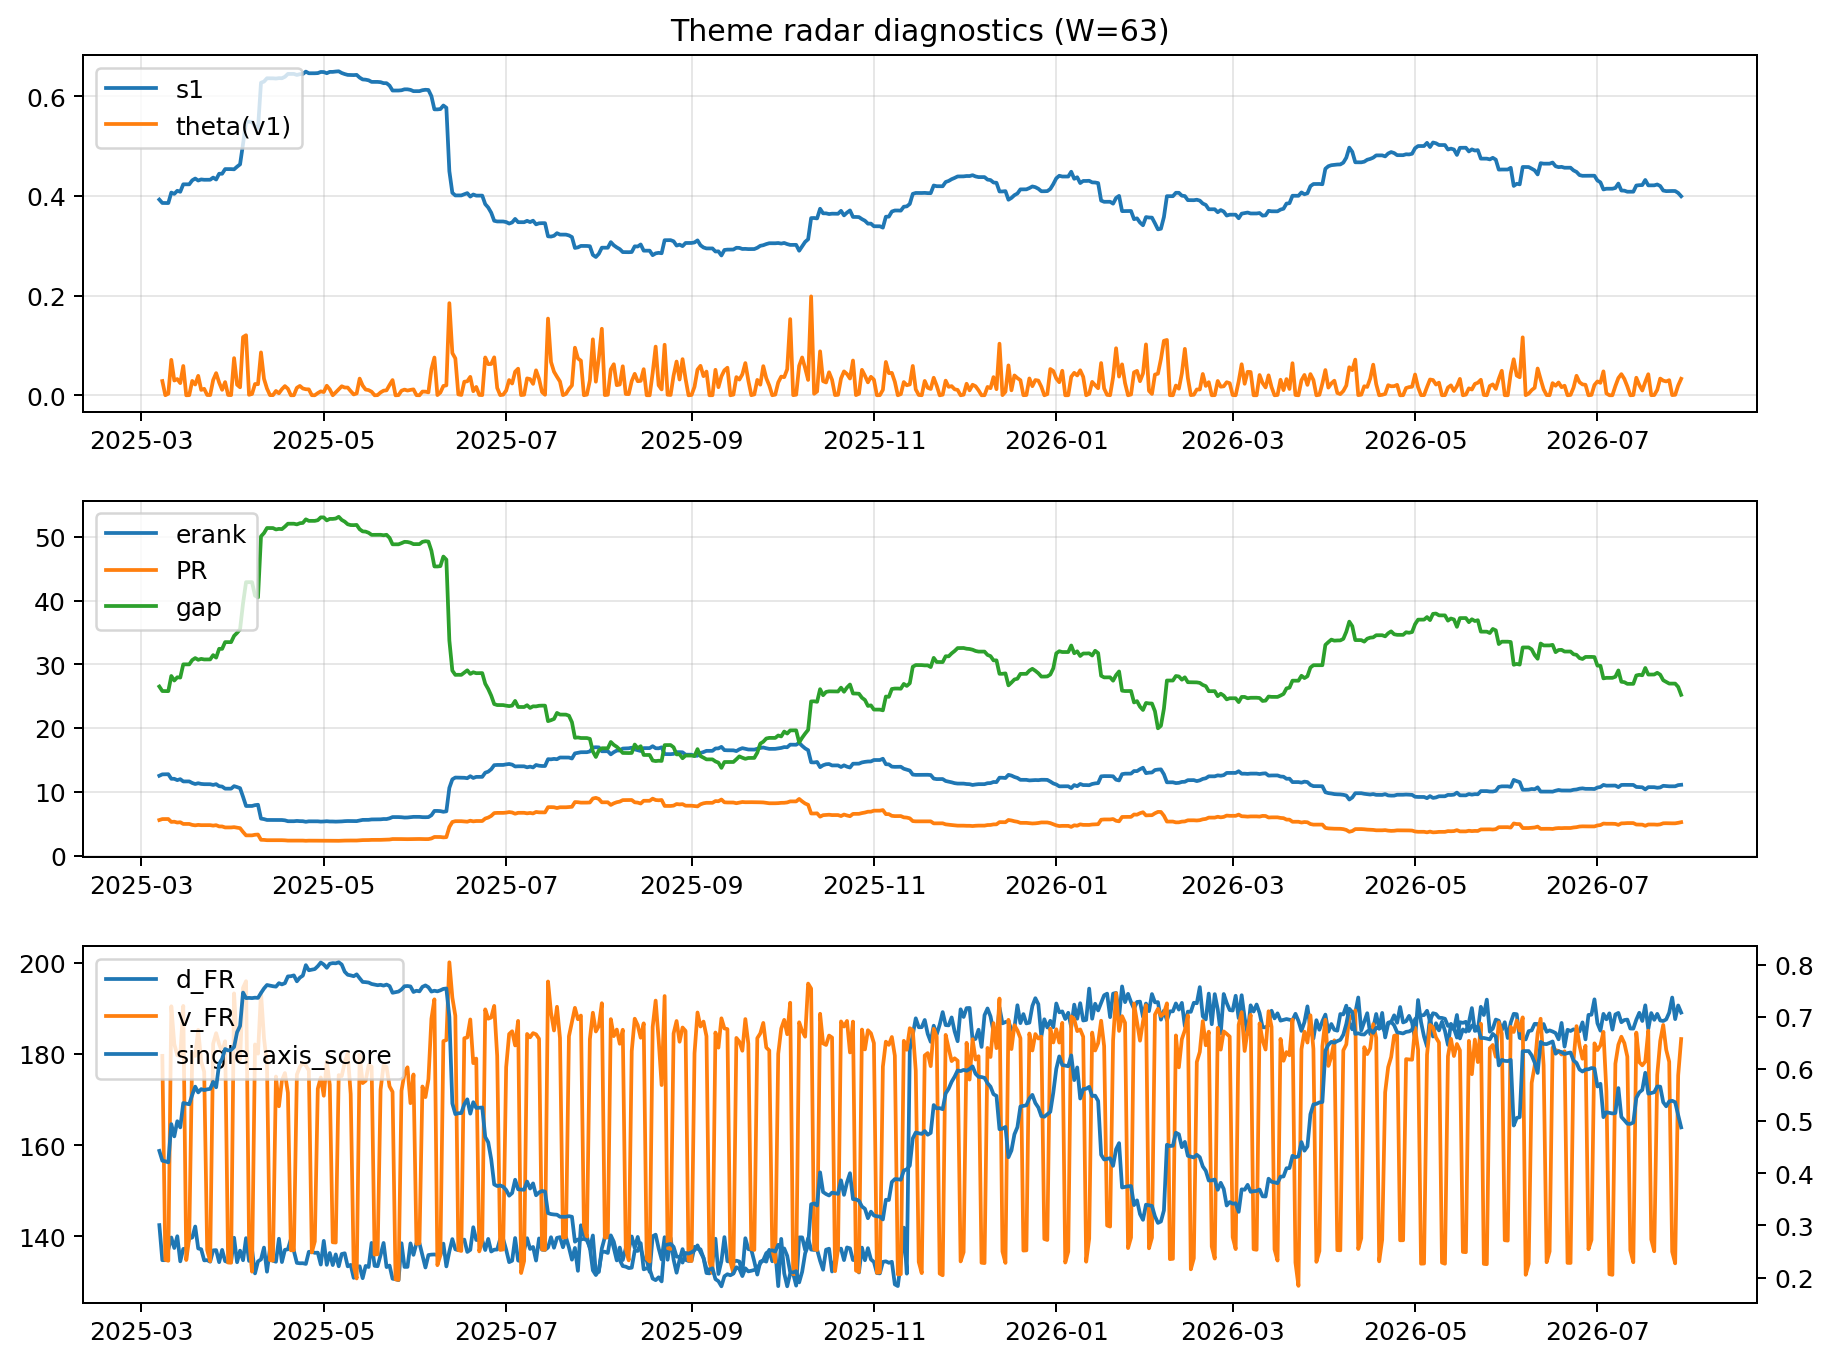
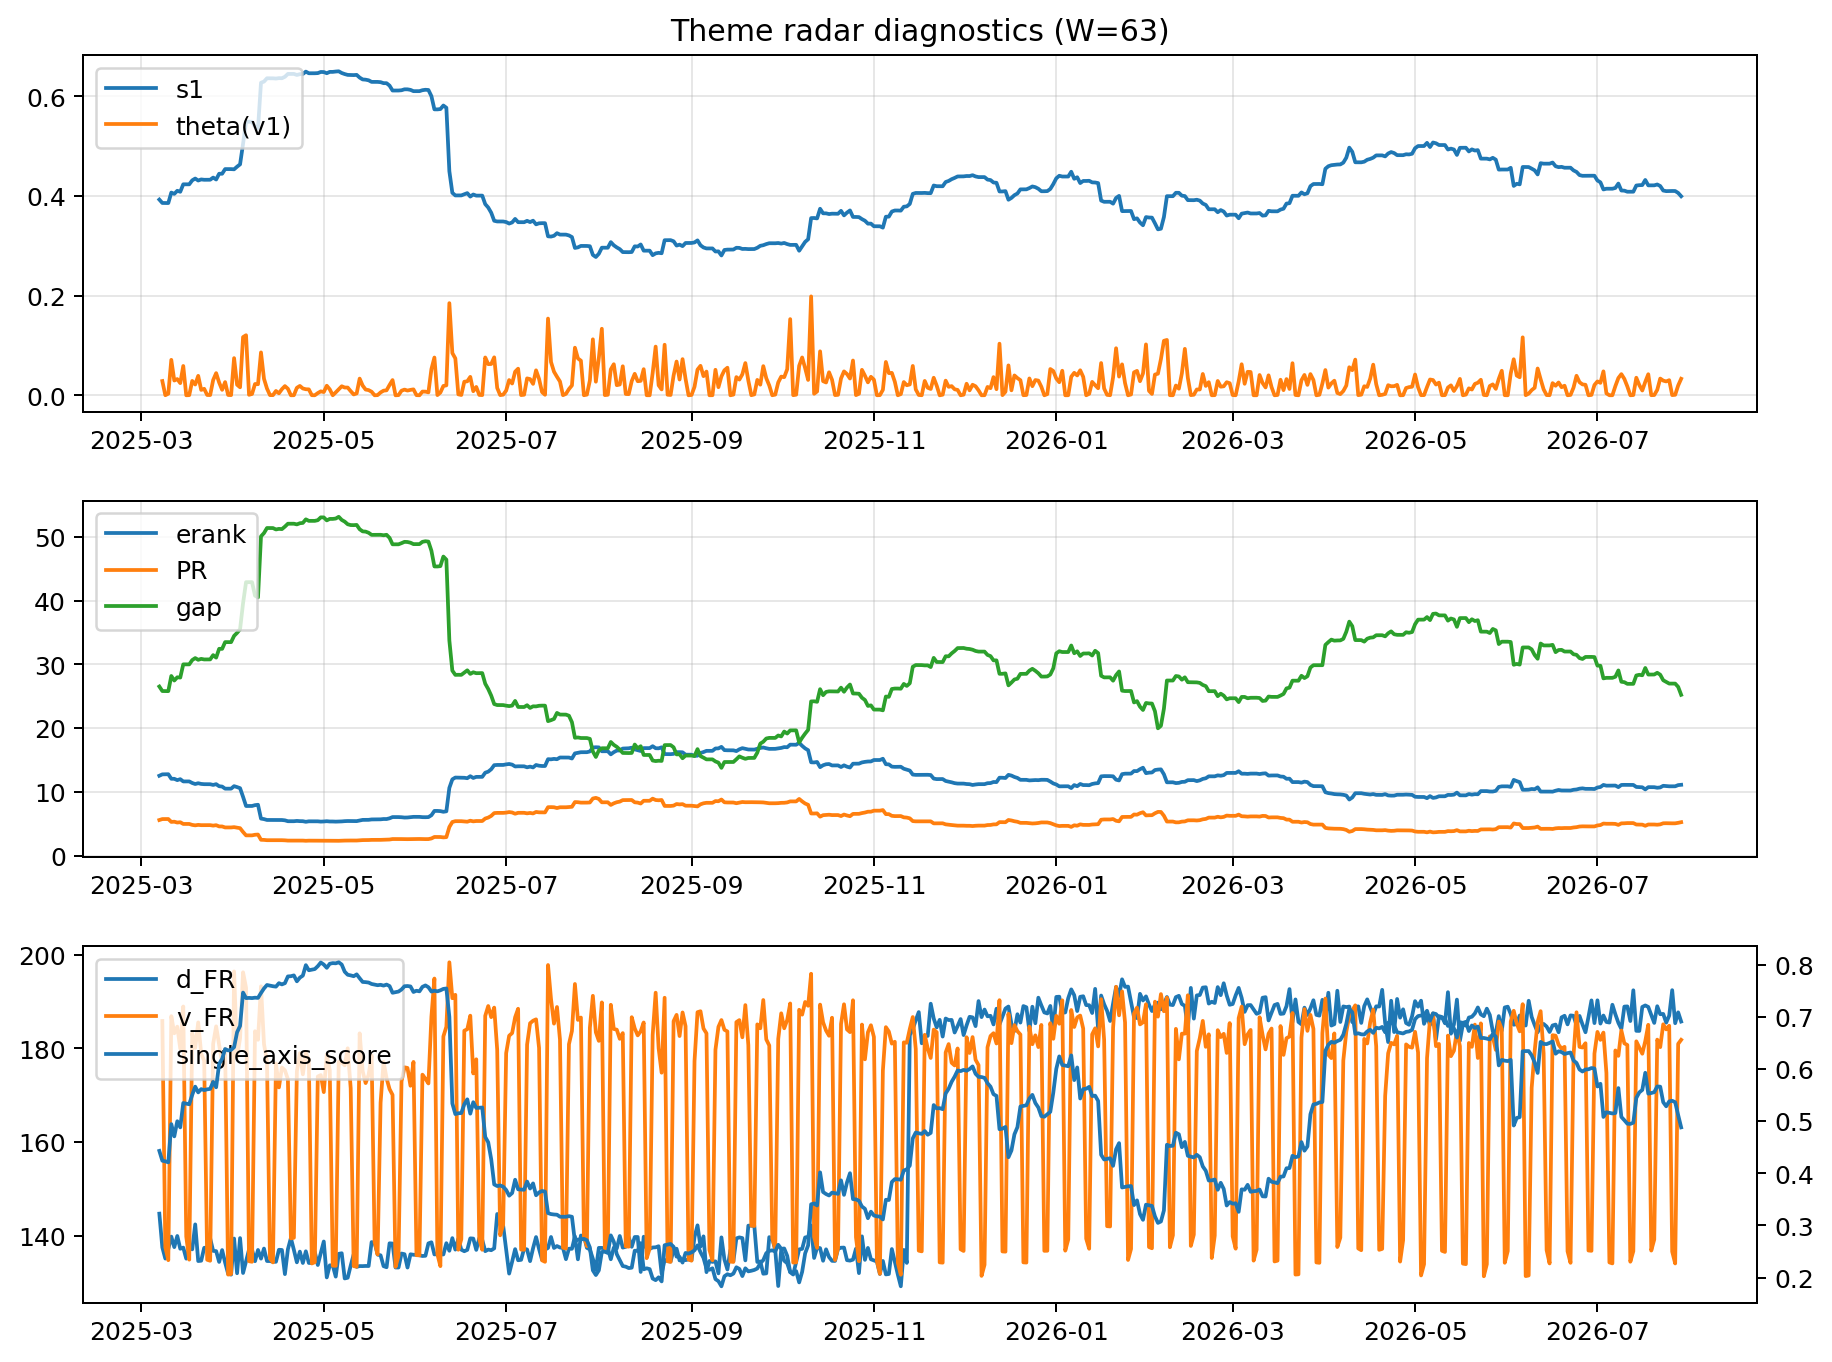
log: 2026-07-29 | sha256:f1d2e656b8b96ce00a2da089bc386c1f39ac96c3512d56bea73315d975322c1d

diff --git a/logs/2026-07-29.md b/logs/2026-07-29.md
@@ -3,43 +3,43 @@
 ![diagnostic W63](../assets/diagnostic/2026-07-29_W63.png)
 
 ## Leaders (v1) — W=63
-- **Nuclear_Uranium** (0.087666634838789)
-- Semis (0.0679837410874008)
-- Quantum (0.0567899721010776)
+- **Nuclear_Uranium** (0.0876666339738773)
+- Semis (0.0679837397236216)
+- Quantum (0.0567899717463435)
 
 ## Challengers — W=63
-**v2:** MegaCap_AI (0.0852255040959976), Semis (0.0843861961440227), Rates (0.0701496968212521)
-**v3:** Software_Cloud (0.0968305837409671), Grid_Power (0.0653711515998373), DataCenter_Infra (0.0632817511080945)
+**v2:** MegaCap_AI (0.0852255006766909), Semis (0.0843861920919287), Rates (0.0701497324752499)
+**v3:** Software_Cloud (0.0968305898522229), Grid_Power (0.0653711601169815), DataCenter_Infra (0.0632817543268294)
 
 ## Migration (20D slope) — W=63
 **Top risers:**
-- axis_Quantum: 0.0003450539666802
-- axis_Sector_RealEstate: 0.0002806814905837
-- axis_Crypto: 0.0002575745540925
-- axis_Sector_Utilities: 0.0002210986937955
-- axis_Semis: 0.0002171280189496
-- axis_Nuclear_Uranium: 0.0001968309967202
-- axis_Space: 0.0001741001232032
-- axis_Metals: 0.0001436007394005
-- axis_Sector_Health: 0.0001340070485414
-- axis_Critical_Minerals: 0.0001194359707043
+- axis_Quantum: 0.0003450538194125
+- axis_Sector_RealEstate: 0.0002806815550924
+- axis_Crypto: 0.0002575740710562
+- axis_Sector_Utilities: 0.0002210986748
+- axis_Semis: 0.0002171281553062
+- axis_Nuclear_Uranium: 0.000196830995319
+- axis_Space: 0.0001741005061274
+- axis_Metals: 0.0001436011220547
+- axis_Sector_Health: 0.0001340071894215
+- axis_Critical_Minerals: 0.0001194362665245
 
 **Top fallers:**
-- axis_Sector_Energy: -9.642554255526262e-05
-- axis_MegaCap_AI: -9.804686564141962e-05
-- axis_Sector_Ind: -0.0001171574359627
-- axis_Defense: -0.0001541878027484
-- axis_Sector_ConsDisc: -0.0001778680446197
-- axis_Credit: -0.0002232685960631
-- axis_Sector_Materials: -0.0002240429896483
-- axis_Commodities: -0.0002806900034583
-- axis_DataCenter_Infra: -0.0004952625166842
-- axis_Rates: -0.0006683378054026
+- axis_Sector_Energy: -9.64256063803005e-05
+- axis_MegaCap_AI: -9.804668353483644e-05
+- axis_Sector_Ind: -0.0001171574396735
+- axis_Defense: -0.0001541876833818
+- axis_Sector_ConsDisc: -0.0001778680278487
+- axis_Credit: -0.0002232681855081
+- axis_Sector_Materials: -0.0002240429467388
+- axis_Commodities: -0.0002806900053018
+- axis_DataCenter_Infra: -0.0004952625833836
+- axis_Rates: -0.0006683408969382
 
 ## Risk line (W=63)
-- s1: 0.3992505497501757
-- theta_v1: 0.0331436148049921
-- v_FR: 183.30075102063552
+- s1: 0.3992505518312184
+- theta_v1: 0.0331436141033388
+- v_FR: 181.8272800168978
 - single_axis_score: 0.487843137254902
 
 ## Interpretation
@@ -48,7 +48,7 @@
 - Action: Tomorrow watchlist: Quantum, Sector_RealEstate, Crypto, Sector_Utilities, Semis + v2_top1=MegaCap_AI
 - Action: Hedge note: normal correlation stability.
 
-- Percentiles (W=63 history): vfr_pct=0.65, theta_pct=0.72, s1_pct=0.41, score_pct=0.45.
+- Percentiles (W=63 history): vfr_pct=0.56, theta_pct=0.72, s1_pct=0.41, score_pct=0.45.
 
 ---
[2 lines of base64/hex data omitted]
